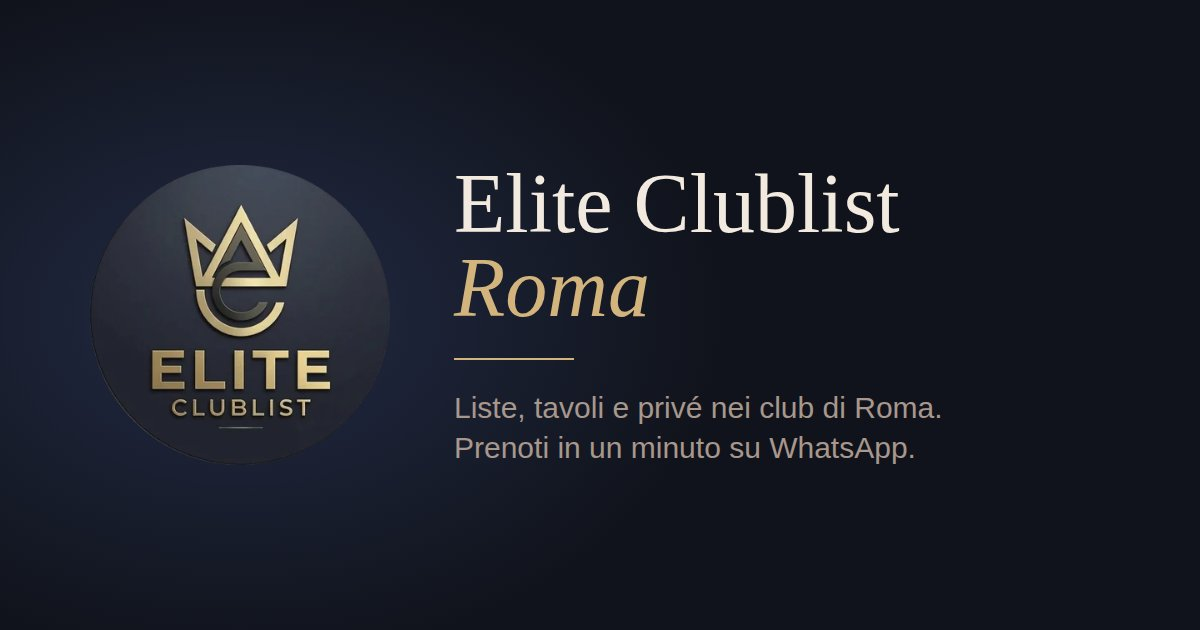
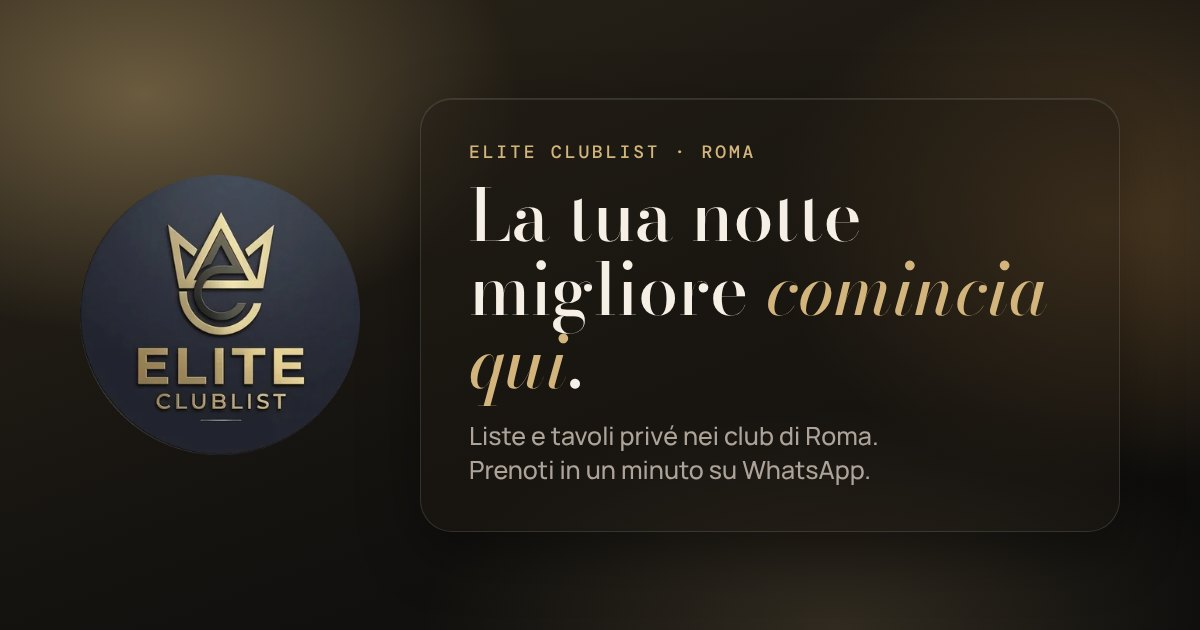
New hero headline and treat tavolo and privé as one option
Headline "La tua notte migliore comincia qui" with a new lead. Table and
privé were the same service shown twice: merge them into "Tavolo privé"
in the form, club tags, New Year's Eve card and descriptions. Refresh the
link preview image to the gold theme and new headline.

Claude-Session: https://claude.ai/code/session_018cPoRPKJdcSN1CFVabE9hw

diff --git a/index.html b/index.html
@@ -4,24 +4,24 @@
 <meta charset="utf-8">
 <meta name="viewport" content="width=device-width, initial-scale=1, viewport-fit=cover">
 <title>Elite Clublist Roma</title>
-<meta name="description" content="Liste, tavoli e privé nei club di Roma, con navetta da Civitavecchia, Santa Marinella e Ladispoli. Prenoti in un minuto su WhatsApp.">
+<meta name="description" content="Liste e tavoli privé nei club di Roma, con navetta da Civitavecchia, Santa Marinella e Ladispoli. Prenoti in un minuto su WhatsApp.">
 <link rel="canonical" href="https://elitelist.it/">
 <meta property="og:type" content="website">
 <meta property="og:site_name" content="Elite Clublist">
 <meta property="og:locale" content="it_IT">
 <meta property="og:url" content="https://elitelist.it/">
 <meta property="og:title" content="Elite Clublist Roma">
-<meta property="og:description" content="Liste, tavoli e privé nei club di Roma, con navetta da Civitavecchia, Santa Marinella e Ladispoli. Prenoti in un minuto su WhatsApp.">
-<meta property="og:image" content="https://elitelist.it/og-image.jpg">
-<meta property="og:image:secure_url" content="https://elitelist.it/og-image.jpg">
+<meta property="og:description" content="Liste e tavoli privé nei club di Roma, con navetta da Civitavecchia, Santa Marinella e Ladispoli. Prenoti in un minuto su WhatsApp.">
+<meta property="og:image" content="https://elitelist.it/og-image.jpg?v=2">
+<meta property="og:image:secure_url" content="https://elitelist.it/og-image.jpg?v=2">
 <meta property="og:image:type" content="image/jpeg">
 <meta property="og:image:width" content="1200">
 <meta property="og:image:height" content="630">
 <meta property="og:image:alt" content="Elite Clublist Roma">
 <meta name="twitter:card" content="summary_large_image">
 <meta name="twitter:title" content="Elite Clublist Roma">
-<meta name="twitter:description" content="Liste, tavoli e privé nei club di Roma. Prenoti in un minuto su WhatsApp.">
-<meta name="twitter:image" content="https://elitelist.it/og-image.jpg">
+<meta name="twitter:description" content="Liste e tavoli privé nei club di Roma. Prenoti in un minuto su WhatsApp.">
+<meta name="twitter:image" content="https://elitelist.it/og-image.jpg?v=2">
 <meta name="theme-color" content="#0B0B0C">
 <link rel="icon" type="image/png" sizes="32x32" href="favicon-32.png">
 <link rel="icon" type="image/png" sizes="192x192" href="icon-192.png">
@@ -268,8 +268,8 @@ input,select,textarea{background-color:rgba(0,0,0,.28);border-color:rgba(255,255
   <div class="wrap">
     <div>
       <span class="label">Roma · Weekend</span>
-      <h1>Liste, tavoli e <em>privé</em> nei club di Roma.</h1>
-      <p class="lead">Scegli il club, dicci in quanti siete e se ti serve la navetta. Ti confermiamo tutto su WhatsApp, di solito in pochi minuti.</p>
+      <h1>La tua notte migliore <em>comincia qui</em>.</h1>
+      <p class="lead">Scegli il club, al resto pensiamo noi: lista, tavolo privé, navetta e conferma su WhatsApp in pochi minuti.</p>
       <div class="actions">
         <a class="btn btn-solid" href="#prenota">Prenota il tuo posto</a>
         <a class="btn btn-ghost" href="#capodanno">Capodanno 2027 →</a>
@@ -303,7 +303,7 @@ input,select,textarea{background-color:rgba(0,0,0,.28);border-color:rgba(255,255
     </div>
     <div class="nye-grid">
       <article class="nye"><span class="n">01</span><h3>Ingresso in pista</h3><p>Lista per entrare dopo mezzanotte in tutti i nostri club.</p><button type="button" data-nye="Ingresso in pista">Prenota →</button></article>
-      <article class="nye"><span class="n">02</span><h3>Tavolo e privé</h3><p>Tavolo riservato in discoteca per il tuo gruppo, con servizio bottiglia.</p><button type="button" data-nye="Tavolo / privé in discoteca">Prenota →</button></article>
+      <article class="nye"><span class="n">02</span><h3>Tavolo privé</h3><p>Tavolo riservato in discoteca per il tuo gruppo, con servizio bottiglia.</p><button type="button" data-nye="Tavolo privé in discoteca">Prenota →</button></article>
       <article class="nye"><span class="n">03</span><h3>Cena + party</h3><p>Cenone e brindisi di mezzanotte, poi si balla nello stesso locale.</p><button type="button" data-nye="Cena + party">Prenota →</button></article>
       <article class="nye"><span class="n">04</span><h3>Cena e pernottamento</h3><p>Hotel e ville selezionati con cena di Capodanno e camera per la notte.</p><button type="button" data-nye="Cena e pernottamento (hotel / villa)">Prenota →</button></article>
       <article class="nye"><span class="n">05</span><h3>Navetta del 31</h3><p>Da Civitavecchia, Santa Marinella e Ladispoli fino al locale, con ritorno.</p><button type="button" data-nye="Navetta">Prenota →</button></article>
@@ -370,8 +370,7 @@ input,select,textarea{background-color:rgba(0,0,0,.28);border-color:rgba(255,255
         <div class="f full"><span class="lab">Cosa ti serve</span>
           <div class="chips" role="radiogroup" aria-label="Tipo di prenotazione">
             <label><input type="radio" name="tipo" id="t1" value="Ingresso in lista" checked><span>Lista</span></label>
-            <label><input type="radio" name="tipo" id="t2" value="Tavolo"><span>Tavolo</span></label>
-            <label><input type="radio" name="tipo" id="t3" value="Privé"><span>Privé</span></label>
+            <label><input type="radio" name="tipo" id="t2" value="Tavolo privé"><span>Tavolo privé</span></label>
             <label><input type="radio" name="tipo" id="t4" value="Compleanno / evento privato"><span>Compleanno</span></label>
             <label><input type="radio" name="tipo" id="t5" value="Capodanno"><span>Capodanno</span></label>
           </div>
@@ -406,7 +405,7 @@ input,select,textarea{background-color:rgba(0,0,0,.28);border-color:rgba(255,255
   <div class="wrap">
     <div>
       <span class="brand">Elite <i>Clublist</i></span>
-      <p style="margin-top:12px">Liste, tavoli e privé nei club di Roma, con navetta.</p>
+      <p style="margin-top:12px">Liste e tavoli privé nei club di Roma, con navetta.</p>
       <p style="margin-top:10px">Instagram: <a href="https://instagram.com/elite_clublist" target="_blank" rel="noopener">@elite_clublist</a></p>
     </div>
     <div>
@@ -426,14 +425,14 @@ input,select,textarea{background-color:rgba(0,0,0,.28);border-color:rgba(255,255
 const WHATSAPP = "393286068004";            // numero con prefisso, solo cifre. Es: "393401234567"
 /* Club in ordine di importanza: i primi 5 sono "in evidenza" */
 const CLUBS = [
-  {nome:"Nice", logo:"logos/nice.png", zona:"Saxa Rubra", desc:"Club all’aperto, il riferimento del weekend per reggaeton e commerciale.", tags:["Reggaeton","Commerciale","Tavoli"]},
-  {nome:"Opus Club", logo:"logos/opus.png", zona:"Flaminio", desc:"Sala elegante e servizio al tavolo curato, per le serate importanti.", tags:["House","Commerciale","Privé"]},
-  {nome:"Room 26", logo:"logos/room26.png", zona:"EUR", desc:"Grande club all’EUR con produzioni e ospiti per le serate più piene.", tags:["Commerciale","Hip hop","Tavoli"]},
-  {nome:"HYN", logo:"logos/hyn.png", zona:"Ladispoli", desc:"Club sul litorale, una delle serate di punta del weekend.", tags:["Tavoli","Privé"]},
-  {nome:"Art Café", logo:"logos/artcafe.png", zona:"Villa Borghese", desc:"Storico club sotto Villa Borghese, tavolo consigliato su prenotazione.", tags:["Commerciale","House","Tavoli"]},
+  {nome:"Nice", logo:"logos/nice.png", zona:"Saxa Rubra", desc:"Club all’aperto, il riferimento del weekend per reggaeton e commerciale.", tags:["Reggaeton","Commerciale","Tavolo privé"]},
+  {nome:"Opus Club", logo:"logos/opus.png", zona:"Flaminio", desc:"Sala elegante e servizio al tavolo curato, per le serate importanti.", tags:["House","Commerciale","Tavolo privé"]},
+  {nome:"Room 26", logo:"logos/room26.png", zona:"EUR", desc:"Grande club all’EUR con produzioni e ospiti per le serate più piene.", tags:["Commerciale","Hip hop","Tavolo privé"]},
+  {nome:"HYN", logo:"logos/hyn.png", zona:"Ladispoli", desc:"Club sul litorale, una delle serate di punta del weekend.", tags:["Tavolo privé"]},
+  {nome:"Art Café", logo:"logos/artcafe.png", zona:"Villa Borghese", desc:"Storico club sotto Villa Borghese, tavolo consigliato su prenotazione.", tags:["Commerciale","House","Tavolo privé"]},
   {nome:"Teatro Centrale", zona:"Centro", desc:"Club in un teatro nel cuore di Roma.", tags:["Commerciale","Cena"]},
   {nome:"Nimbus", zona:"Valle Giulia", desc:"Terrazza con vista, aperta nella stagione estiva.", tags:["House","Estate"]},
-  {nome:"Villa Sublime", zona:"Fleming", desc:"Villa con giardino a Roma nord.", tags:["Commerciale","Tavoli"]},
+  {nome:"Villa Sublime", zona:"Fleming", desc:"Villa con giardino a Roma nord.", tags:["Commerciale","Tavolo privé"]},
   {nome:"Gus", zona:"Prati", desc:"Locale in Prati per aperitivo e serata.", tags:["Commerciale","Aperitivo"]}
 ];
 const FEATURED = 5;
